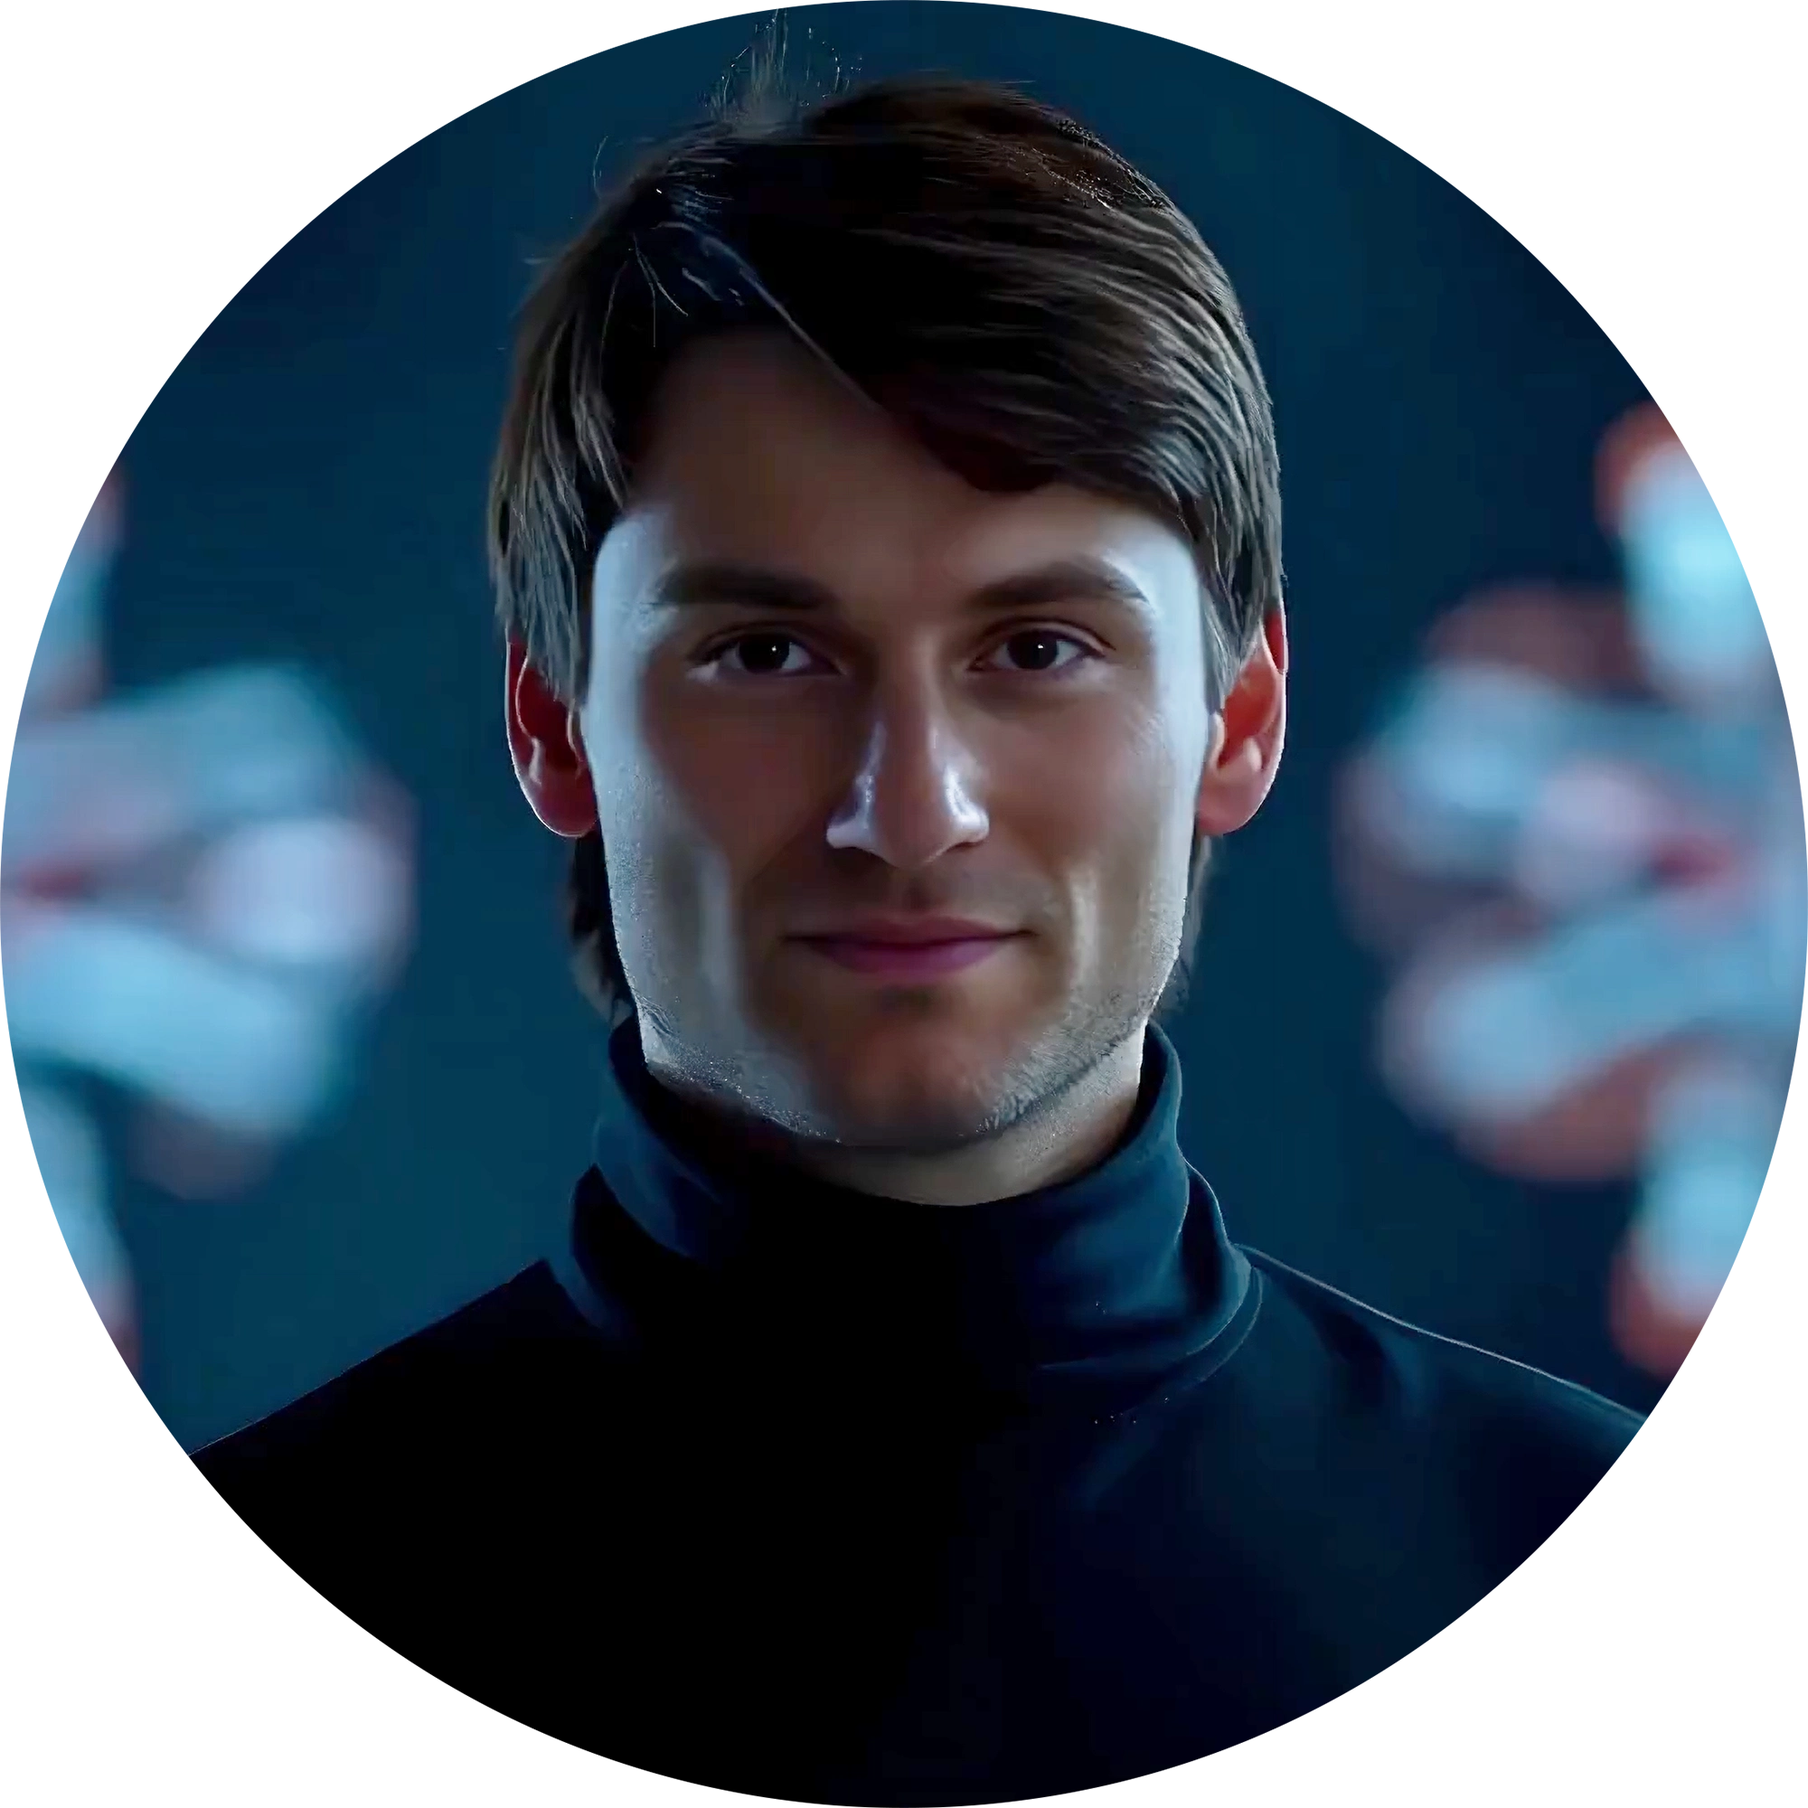
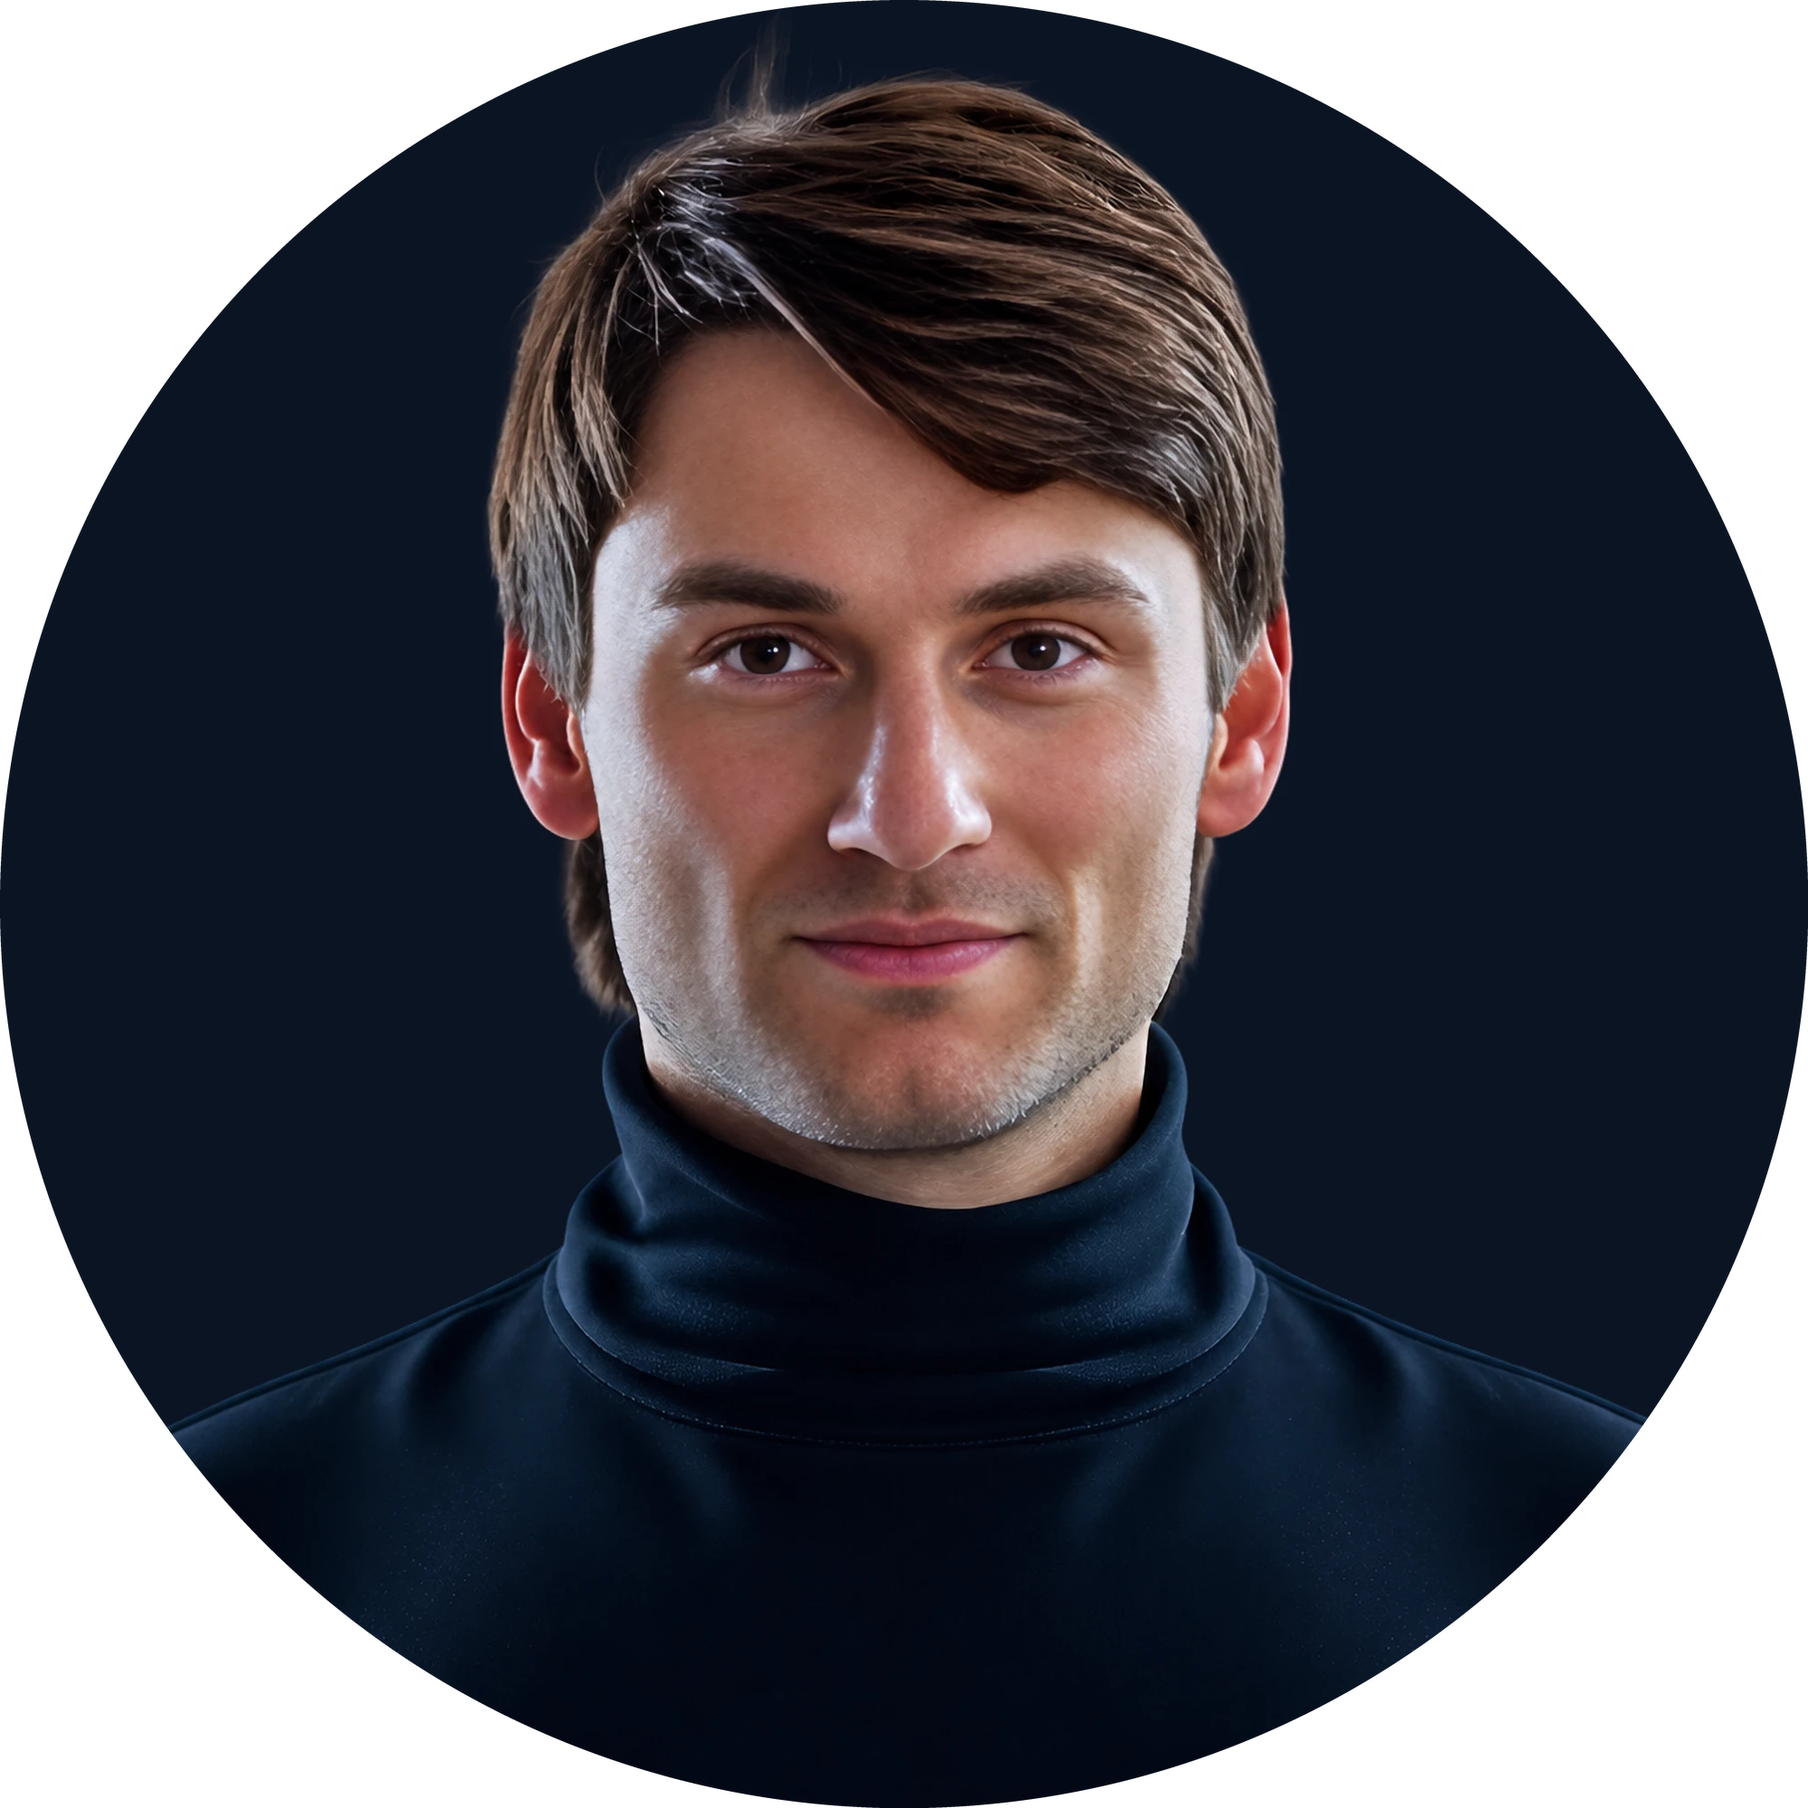
Stop hover movement under Reduce Motion and add a JavaScript badge (#84)

diff --git a/tests/regressions.spec.ts b/tests/regressions.spec.ts
@@ -966,3 +966,131 @@ test.describe("Page weight", () => {
     });
   }
 });
+
+test.describe("Reduced motion", () => {
+  const modes = [
+    ["no preference", "no-preference", true],
+    ["reduce", "reduce", false],
+  ] as const;
+
+  for (const [name, reducedMotion, moves] of modes) {
+    test.describe(`with ${name}`, () => {
+      test.use({ reducedMotion });
+
+      test(`an About icon ${moves ? "grows" : "stays put"} on hover`, async ({
+        page,
+      }) => {
+        await page.goto("/");
+        const icon = page
+          .locator('main a[aria-label][style*="inline-block"]')
+          .first();
+        await icon.scrollIntoViewIfNeeded();
+        await icon.hover();
+
+        await expect
+          .poll(() => icon.evaluate((el) => getComputedStyle(el).scale))
+          .toBe(moves ? "1.1" : "none");
+      });
+
+      test(`a card title arrow ${moves ? "slides" : "stays put"} on hover`, async ({
+        page,
+      }) => {
+        await page.goto("/portfolio/");
+        const title = page.locator("article a:has(h2)").first();
+        await title.scrollIntoViewIfNeeded();
+        await title.hover();
+        const arrow = title.locator("span.inline-block");
+
+        await expect
+          .poll(() => arrow.evaluate((el) => getComputedStyle(el).translate))
+          .toBe(moves ? "4px" : "none");
+      });
+
+      test(`a pressed tab ${moves ? "shrinks" : "stays put"}`, async ({
+        page,
+      }) => {
+        await page.goto("/portfolio/");
+        const tab = page.locator('button[aria-pressed="false"]').first();
+        const box = (await tab.boundingBox())!;
+        await page.mouse.move(box.x + box.width / 2, box.y + box.height / 2);
+        await page.mouse.down();
+
+        await expect
+          .poll(() => tab.evaluate((el) => getComputedStyle(el).scale))
+          .toBe(moves ? "0.95" : "none");
+        await page.mouse.up();
+      });
+
+      test(`the navbar ${moves ? "slides" : "jumps"} when it hides`, async ({
+        page,
+      }) => {
+        await page.goto("/");
+
+        const property = await page
+          .locator("nav")
+          .first()
+          .evaluate((el) => getComputedStyle(el).transitionProperty);
+        if (moves) expect(property).not.toBe("none");
+        else expect(property).toBe("none");
+      });
+
+      test(`an Experience tab panel opens ${moves ? "gradually" : "at once"}`, async ({
+        page,
+      }) => {
+        await page.goto("/experience/");
+        const card = page.locator("article").first();
+        await card.scrollIntoViewIfNeeded();
+
+        const heights = await card.evaluate(async (article) => {
+          const tab = article.querySelector(
+            "button[aria-expanded]",
+          ) as HTMLElement;
+          const samples: number[] = [];
+          const started = performance.now();
+          tab.click();
+          while (performance.now() - started < 700) {
+            await new Promise(requestAnimationFrame);
+            const panel = article.querySelector('[id$="-panel"]');
+            samples.push(panel ? panel.getBoundingClientRect().height : 0);
+          }
+          return samples;
+        });
+
+        const settled = heights[heights.length - 1];
+        expect(settled).toBeGreaterThan(40);
+        const between = heights.filter(
+          (h) => h > settled * 0.1 && h < settled * 0.9,
+        );
+        if (moves) expect(between.length).toBeGreaterThan(2);
+        else expect(between).toEqual([]);
+      });
+    });
+  }
+
+  for (const [reducedMotion, instant] of [
+    ["reduce", true],
+    ["no-preference", false],
+  ] as const) {
+    test(`the menu icon morphs ${instant ? "at once" : "with a transition"} with ${reducedMotion}`, async ({
+      page,
+    }) => {
+      await page.emulateMedia({ reducedMotion });
+      await page.setViewportSize({ width: 360, height: 780 });
+      await page.goto("/");
+
+      const properties = await page
+        .locator(
+          'button[aria-label="Toggle menu"] svg, button[aria-label="Toggle menu"] svg path:first-child',
+        )
+        .evaluateAll((els) =>
+          els.map((el) => getComputedStyle(el).transitionProperty),
+        );
+
+      expect(properties).toHaveLength(2);
+      for (const property of properties) {
+        if (instant) expect(property).toBe("none");
+        else expect(property).not.toBe("none");
+      }
+    });
+  }
+});

diff --git a/components/PortfolioCard.jsx b/components/PortfolioCard.jsx
@@ -34,7 +34,7 @@ const PortfolioCard = ({ project, priority = false }) => {
     <article
       className="group relative overflow-hidden rounded-2xl bg-card border border-white/10 
                  transition-all duration-300 hover:border-accent/30 hover:shadow-lg 
-                 hover:shadow-accent/5 active:scale-[0.99]"
+                 hover:shadow-accent/5 motion-safe:active:scale-[0.99]"
     >
       {/* Image Container - Clickable */}
       <Link
@@ -48,7 +48,7 @@ const PortfolioCard = ({ project, priority = false }) => {
           priority={priority}
           sizes="(max-width: 767px) calc(100vw - 3rem), (max-width: 1023px) calc(50vw - 2.25rem), (max-width: 1279px) calc(33vw - 2rem), 395px"
           quality={90}
-          className="object-cover transition-transform duration-500 group-hover:scale-102"
+          className="object-cover transition-transform duration-500 motion-safe:group-hover:scale-102"
         />
         {/* Gradient Overlay */}
         <div
@@ -75,7 +75,7 @@ const PortfolioCard = ({ project, priority = false }) => {
             <h2 className="text-lg font-semibold text-light transition-colors duration-300 group-hover:text-accent inline">
               {title}
               <span
-                className="inline-block ml-1.5 align-baseline transition-transform duration-300 group-hover/title:translate-x-1"
+                className="inline-block ml-1.5 align-baseline transition-transform duration-300 motion-safe:group-hover/title:translate-x-1"
                 style={{ width: "0.75rem", height: "0.75rem" }}
               >
                 <FontAwesomeIcon

diff --git a/app/not-found.jsx b/app/not-found.jsx
@@ -40,7 +40,7 @@ export default function NotFound() {
               href="/"
               className="group w-full sm:w-auto inline-flex items-center justify-center gap-2 
                          px-6 py-3 rounded-full bg-accent text-dark font-medium
-                         hover:bg-accent/90 transition-all duration-300 hover:scale-[1.02]"
+                         hover:bg-accent/90 transition-all duration-300 motion-safe:hover:scale-[1.02]"
             >
               <FontAwesomeIcon icon={faHouse} className="w-4 h-4" />
               Take Me Home
@@ -51,11 +51,11 @@ export default function NotFound() {
               className="group w-full sm:w-auto inline-flex items-center justify-center gap-2 
                          px-6 py-3 rounded-full bg-transparent text-light font-medium
                          border border-white/20 hover:bg-white/5 cursor-pointer
-                         transition-all duration-300 hover:scale-[1.02]"
+                         transition-all duration-300 motion-safe:hover:scale-[1.02]"
             >
               <FontAwesomeIcon
                 icon={faArrowLeft}
-                className="w-4 h-4 transition-transform group-hover:-translate-x-1"
+                className="w-4 h-4 transition-transform motion-safe:group-hover:-translate-x-1"
               />
               Go Back
             </button>

diff --git a/components/Navbar.jsx b/components/Navbar.jsx
@@ -117,10 +117,9 @@ function Navbar() {
     <nav
       ref={navRef}
       onFocus={() => setIsVisible(true)}
-      className="fixed top-4 left-0 right-0 z-50 flex justify-center px-6"
+      className="fixed top-4 left-0 right-0 z-50 flex justify-center px-6 transition-transform duration-300 ease-in-out motion-reduce:transition-none"
       style={{
         transform: isVisible ? "translateY(0)" : "translateY(-130%)",
-        transition: "transform 0.3s ease-in-out",
       }}
     >
       {/* Glassmorphism Pill Container */}
@@ -128,7 +127,7 @@ function Navbar() {
         {/* Logo */}
         <Link
           href="/"
-          className="relative after:absolute after:-inset-x-1 after:-inset-y-1.5 focus-visible:after:hidden inline-flex items-center gap-2 hover:brightness-125 hover:scale-[1.03] transition-all duration-200 origin-center cursor-pointer flex-shrink-0"
+          className="relative after:absolute after:-inset-x-1 after:-inset-y-1.5 focus-visible:after:hidden inline-flex items-center gap-2 hover:brightness-125 motion-safe:hover:scale-[1.03] transition-all duration-200 origin-center cursor-pointer flex-shrink-0"
           aria-label="Go to home page"
         >
           <Image

diff --git a/components/Footer.jsx b/components/Footer.jsx
@@ -73,7 +73,7 @@ function Footer() {
         <div className="space-y-4 text-center lg:text-left lg:col-start-1 lg:row-start-1">
           <Link
             href="/"
-            className="relative after:absolute after:-inset-x-1 after:-inset-y-1.5 focus-visible:after:hidden inline-flex items-center justify-center gap-2 [@media(hover:hover)]:hover:brightness-125 [@media(hover:hover)]:hover:scale-[1.03] transition-all duration-200 origin-center"
+            className="relative after:absolute after:-inset-x-1 after:-inset-y-1.5 focus-visible:after:hidden inline-flex items-center justify-center gap-2 [@media(hover:hover)]:hover:brightness-125 motion-safe:[@media(hover:hover)]:hover:scale-[1.03] transition-all duration-200 origin-center"
             aria-label="Go to home page"
           >
             <Image

diff --git a/components/FeaturedProjects.jsx b/components/FeaturedProjects.jsx
@@ -112,7 +112,7 @@ const FeaturedProjects = () => {
                     <h3 className="text-sm font-bold text-white group-hover:text-accent uppercase leading-tight tracking-wider mb-3 text-center sm:text-left transition-colors flex items-center justify-center sm:justify-start gap-2">
                       {project.title}
                       <span
-                        className="inline-block transition-transform duration-300 group-hover/title:translate-x-1"
+                        className="inline-block transition-transform duration-300 motion-safe:group-hover/title:translate-x-1"
                         style={{ width: "0.75rem", height: "0.75rem" }}
                       >
                         <FontAwesomeIcon

diff --git a/components/ui/menu-toggle-icon.jsx b/components/ui/menu-toggle-icon.jsx
@@ -22,7 +22,7 @@ export function MenuToggleIcon({
       strokeLinecap={strokeLinecap}
       strokeLinejoin={strokeLinejoin}
       className={cn(
-        "transition-transform ease-in-out",
+        "transition-transform ease-in-out motion-reduce:transition-none",
         open && "-rotate-45",
         className,
       )}
@@ -33,7 +33,7 @@ export function MenuToggleIcon({
     >
       <path
         className={cn(
-          "transition-all ease-in-out",
+          "transition-all ease-in-out motion-reduce:transition-none",
           open
             ? "[stroke-dasharray:20_300] [stroke-dashoffset:-32.42px]"
             : "[stroke-dasharray:12_63]",

diff --git a/components/ui/tab.jsx b/components/ui/tab.jsx
@@ -20,7 +20,7 @@ export function Tab({
       onClick={() => setSelected(text)}
       className={cn(
         "relative w-fit px-4 py-3 -my-1 rounded-full -outline-offset-4 text-sm font-semibold capitalize",
-        "text-foreground transition-[color,scale] active:scale-95 flex items-center gap-2 cursor-pointer",
+        "text-foreground transition-[color,scale] motion-safe:active:scale-95 flex items-center gap-2 cursor-pointer",
         !selected &&
           "hover:text-light before:absolute before:inset-x-0 before:inset-y-1 before:rounded-full before:bg-white/5 before:opacity-0 before:transition-opacity hover:before:opacity-100",
       )}

diff --git a/components/PublicationCard.jsx b/components/PublicationCard.jsx
@@ -84,7 +84,7 @@ const PublicationCard = ({ publication }) => {
                 <h2 className="text-base font-semibold text-light leading-snug group-hover:text-accent transition-colors inline">
                   {title}
                   <span
-                    className="inline-block ml-1.5 align-baseline transition-transform duration-300 group-hover/link:translate-x-1"
+                    className="inline-block ml-1.5 align-baseline transition-transform duration-300 motion-safe:group-hover/link:translate-x-1"
                     style={{ width: "0.75rem", height: "0.75rem" }}
                   >
                     <FontAwesomeIcon

diff --git a/components/ExperienceCard.jsx b/components/ExperienceCard.jsx
@@ -212,7 +212,7 @@ export const CompanyLogo = ({
     href={url}
     target="_blank"
     rel="noopener noreferrer"
-    className={`relative w-16 h-16 flex-shrink-0 rounded-2xl overflow-hidden border border-light/10 bg-card/50 cursor-pointer transition-all duration-300 md:hover:scale-[1.03] md:hover:border-accent/30 ${className}`}
+    className={`relative w-16 h-16 flex-shrink-0 rounded-2xl overflow-hidden border border-light/10 bg-card/50 cursor-pointer transition-all duration-300 motion-safe:md:hover:scale-[1.03] md:hover:border-accent/30 ${className}`}
     aria-label={`${company} website`}
   >
     <Image

diff --git a/components/CertificateCard.jsx b/components/CertificateCard.jsx
@@ -35,7 +35,7 @@ const CertificateCard = ({ certificate }) => {
                   <span className="whitespace-nowrap">
                     {lastWord}
                     <span
-                      className="inline-block ml-2 align-[-1px] transition-transform duration-300 group-hover/title:translate-x-1"
+                      className="inline-block ml-2 align-[-1px] transition-transform duration-300 motion-safe:group-hover/title:translate-x-1"
                       style={{ width: "0.75rem", height: "0.75rem" }}
                     >
                       <FontAwesomeIcon

diff --git a/components/project/CoreTeam.jsx b/components/project/CoreTeam.jsx
@@ -30,7 +30,7 @@ function TeamMemberCard({ member }) {
                 href={href}
                 target={external ? "_blank" : undefined}
                 rel={external ? "noopener noreferrer" : undefined}
-                className="p-3.5 -m-3.5 text-gray-400 hover:text-light transition-all duration-300 transform hover:scale-110"
+                className="p-3.5 -m-3.5 text-gray-400 hover:text-light transition-all duration-300 transform motion-safe:hover:scale-110"
                 aria-label={`${member.name}'s ${label}`}
               >
                 <FontAwesomeIcon
